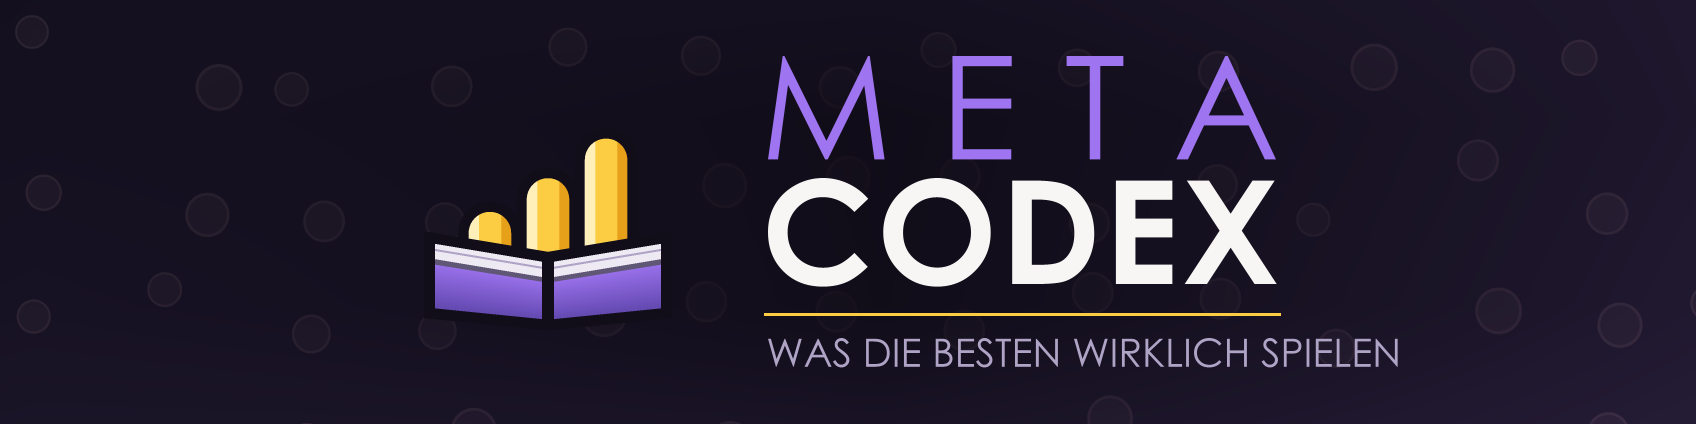
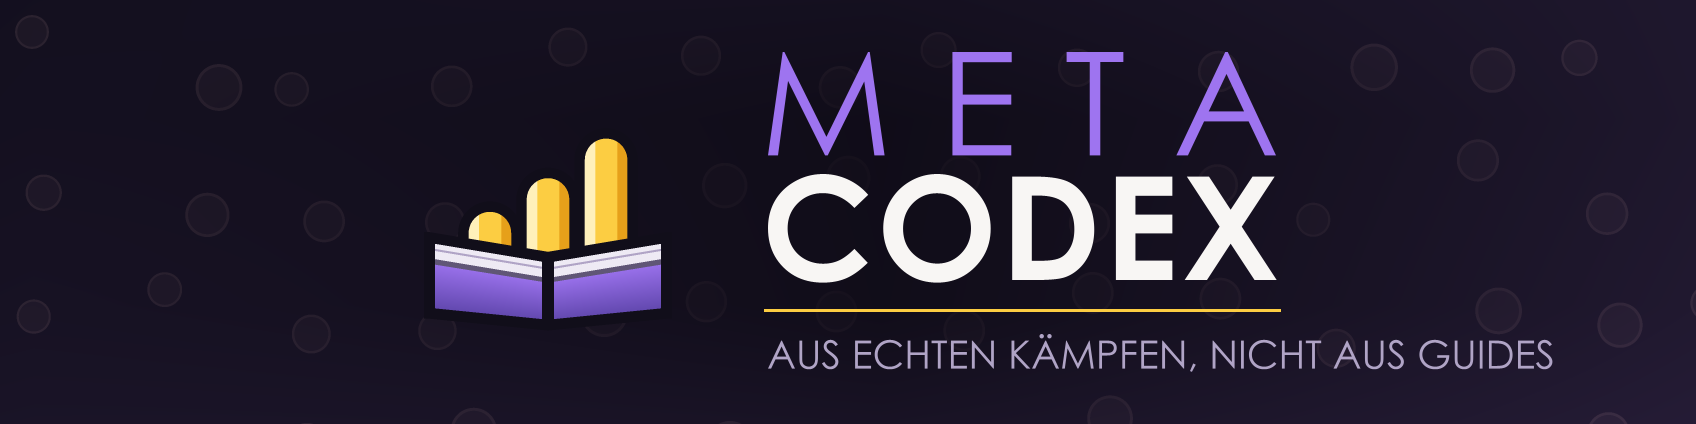
New slogan, copy button on talent rows, layout follows the text size
- The slogan is now "From real fights, not from guides" / "Aus echten
  Kämpfen, nicht aus Guides", in the banner, the TOC and both READMEs.
- Talent rows carry a "Copy import string" button. An addon cannot write
  to the clipboard - WoW does not allow it - so the button opens the
  field with the string already selected. What it saves is the hunting:
  before, the row had to be clicked and the instruction read first.
- Sidebar spacing and row heights follow the text size, with room to
  spare; at 140 % the entries used to sit on top of each other.
- The English murlok line reads "Murlok.io: your spec's page".

diff --git a/README.de.md b/README.de.md
@@ -2,7 +2,7 @@
 
 # MetaCodex
 
-**Was die Besten wirklich spielen.** Talentbuilds mit Import-String,
+**Aus echten Kämpfen, nicht aus Guides.** Talentbuilds mit Import-String,
 Ausrüstung mit Fundort, Verzauberungen, Steine, Verbrauchsgüter, Zielwerte
 und die Top-Spieler je Spec — für Mythic+, Raid und jede PvP-Klammer.
 Täglich gemessen aus raider.io, murlok.io und Warcraft Logs, nie aus einem

diff --git a/README.md b/README.md
@@ -2,7 +2,7 @@
 
 # MetaCodex
 
-**What the best players actually run.** Talent builds with import strings,
+**From real fights, not from guides.** Talent builds with import strings,
 gear with drop sources, enchants, gems, consumables, stat targets and the
 top players per spec — for Mythic+, raid and every PvP bracket. Measured
 daily from raider.io, murlok.io and Warcraft Logs, never copied from a
